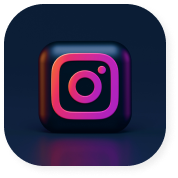
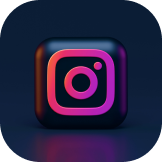
修正圖片大小、新增hover效果

diff --git a/scss/all.css b/scss/all.css
@@ -54,8 +54,7 @@ table {
 }
 
 *, *:befor, *:after {
-  -webkit-box-sizing: border-box;
-          box-sizing: border-box;
+  box-sizing: border-box;
 }
 
 .Bruno-Ace-SC {
@@ -124,14 +123,11 @@ button {
 }
 
 .d-flex {
-  display: -webkit-box;
-  display: -ms-flexbox;
   display: flex;
 }
 
 .f-wrap {
-  -ms-flex-wrap: wrap;
-      flex-wrap: wrap;
+  flex-wrap: wrap;
 }
 
 .tac {
@@ -143,26 +139,19 @@ button {
 }
 
 .jcc {
-  -webkit-box-pack: center;
-      -ms-flex-pack: center;
-          justify-content: center;
+  justify-content: center;
 }
 
 .jcsa {
-  -ms-flex-pack: distribute;
-      justify-content: space-around;
+  justify-content: space-around;
 }
 
 .jcsb {
-  -webkit-box-pack: justify;
-      -ms-flex-pack: justify;
-          justify-content: space-between;
+  justify-content: space-between;
 }
 
 .aic {
-  -webkit-box-align: center;
-      -ms-flex-align: center;
-          align-items: center;
+  align-items: center;
 }
 
 .container {
@@ -218,8 +207,7 @@ button {
   max-width: 640px;
 }
 .about .card ul {
-  -ms-flex-wrap: wrap;
-      flex-wrap: wrap;
+  flex-wrap: wrap;
 }
 .about .card ul li {
   max-width: 302px;
@@ -246,13 +234,16 @@ button {
   width: 100px;
   margin-left: 16px;
 }
-.contact .contact-imgs {
+.contact .contact-img {
   width: 526px;
 }
-.contact .contact-imgs img {
+.contact .contact-img img {
   display: block;
   width: 162px;
   margin: 0;
+}
+.contact .contact-img img:hover {
+  filter: drop-shadow(0 0 12px rgba(144, 148, 255, 0.9));
 }
 
 .projects {

diff --git a/scss/_home.scss b/scss/_home.scss
@@ -123,13 +123,20 @@ button {
     width: 100px;
     margin-left: 16px;
   }
-  .contact-imgs {
+  .contact-img {
     width: 526px;
     img {
       display: block;
       width: 162px;
       margin: 0;
+      &:hover {
+        filter: drop-shadow(0 0 12px rgba(144, 148, 255, 0.9));
+        
+        
+        
+      }
     }
+
   }
 }
 

diff --git a/index.html b/index.html
@@ -90,7 +90,7 @@
       <h2 class="fs-64 text-white">
         CONTACT ME<img src="./images/Vector.png" alt="箭頭">        
       </h2>
-      <div class="contact-imgs">
+      <div class="contact-img test">
         <ul class="d-flex jcsb">
           <li>
             <a href="#">
